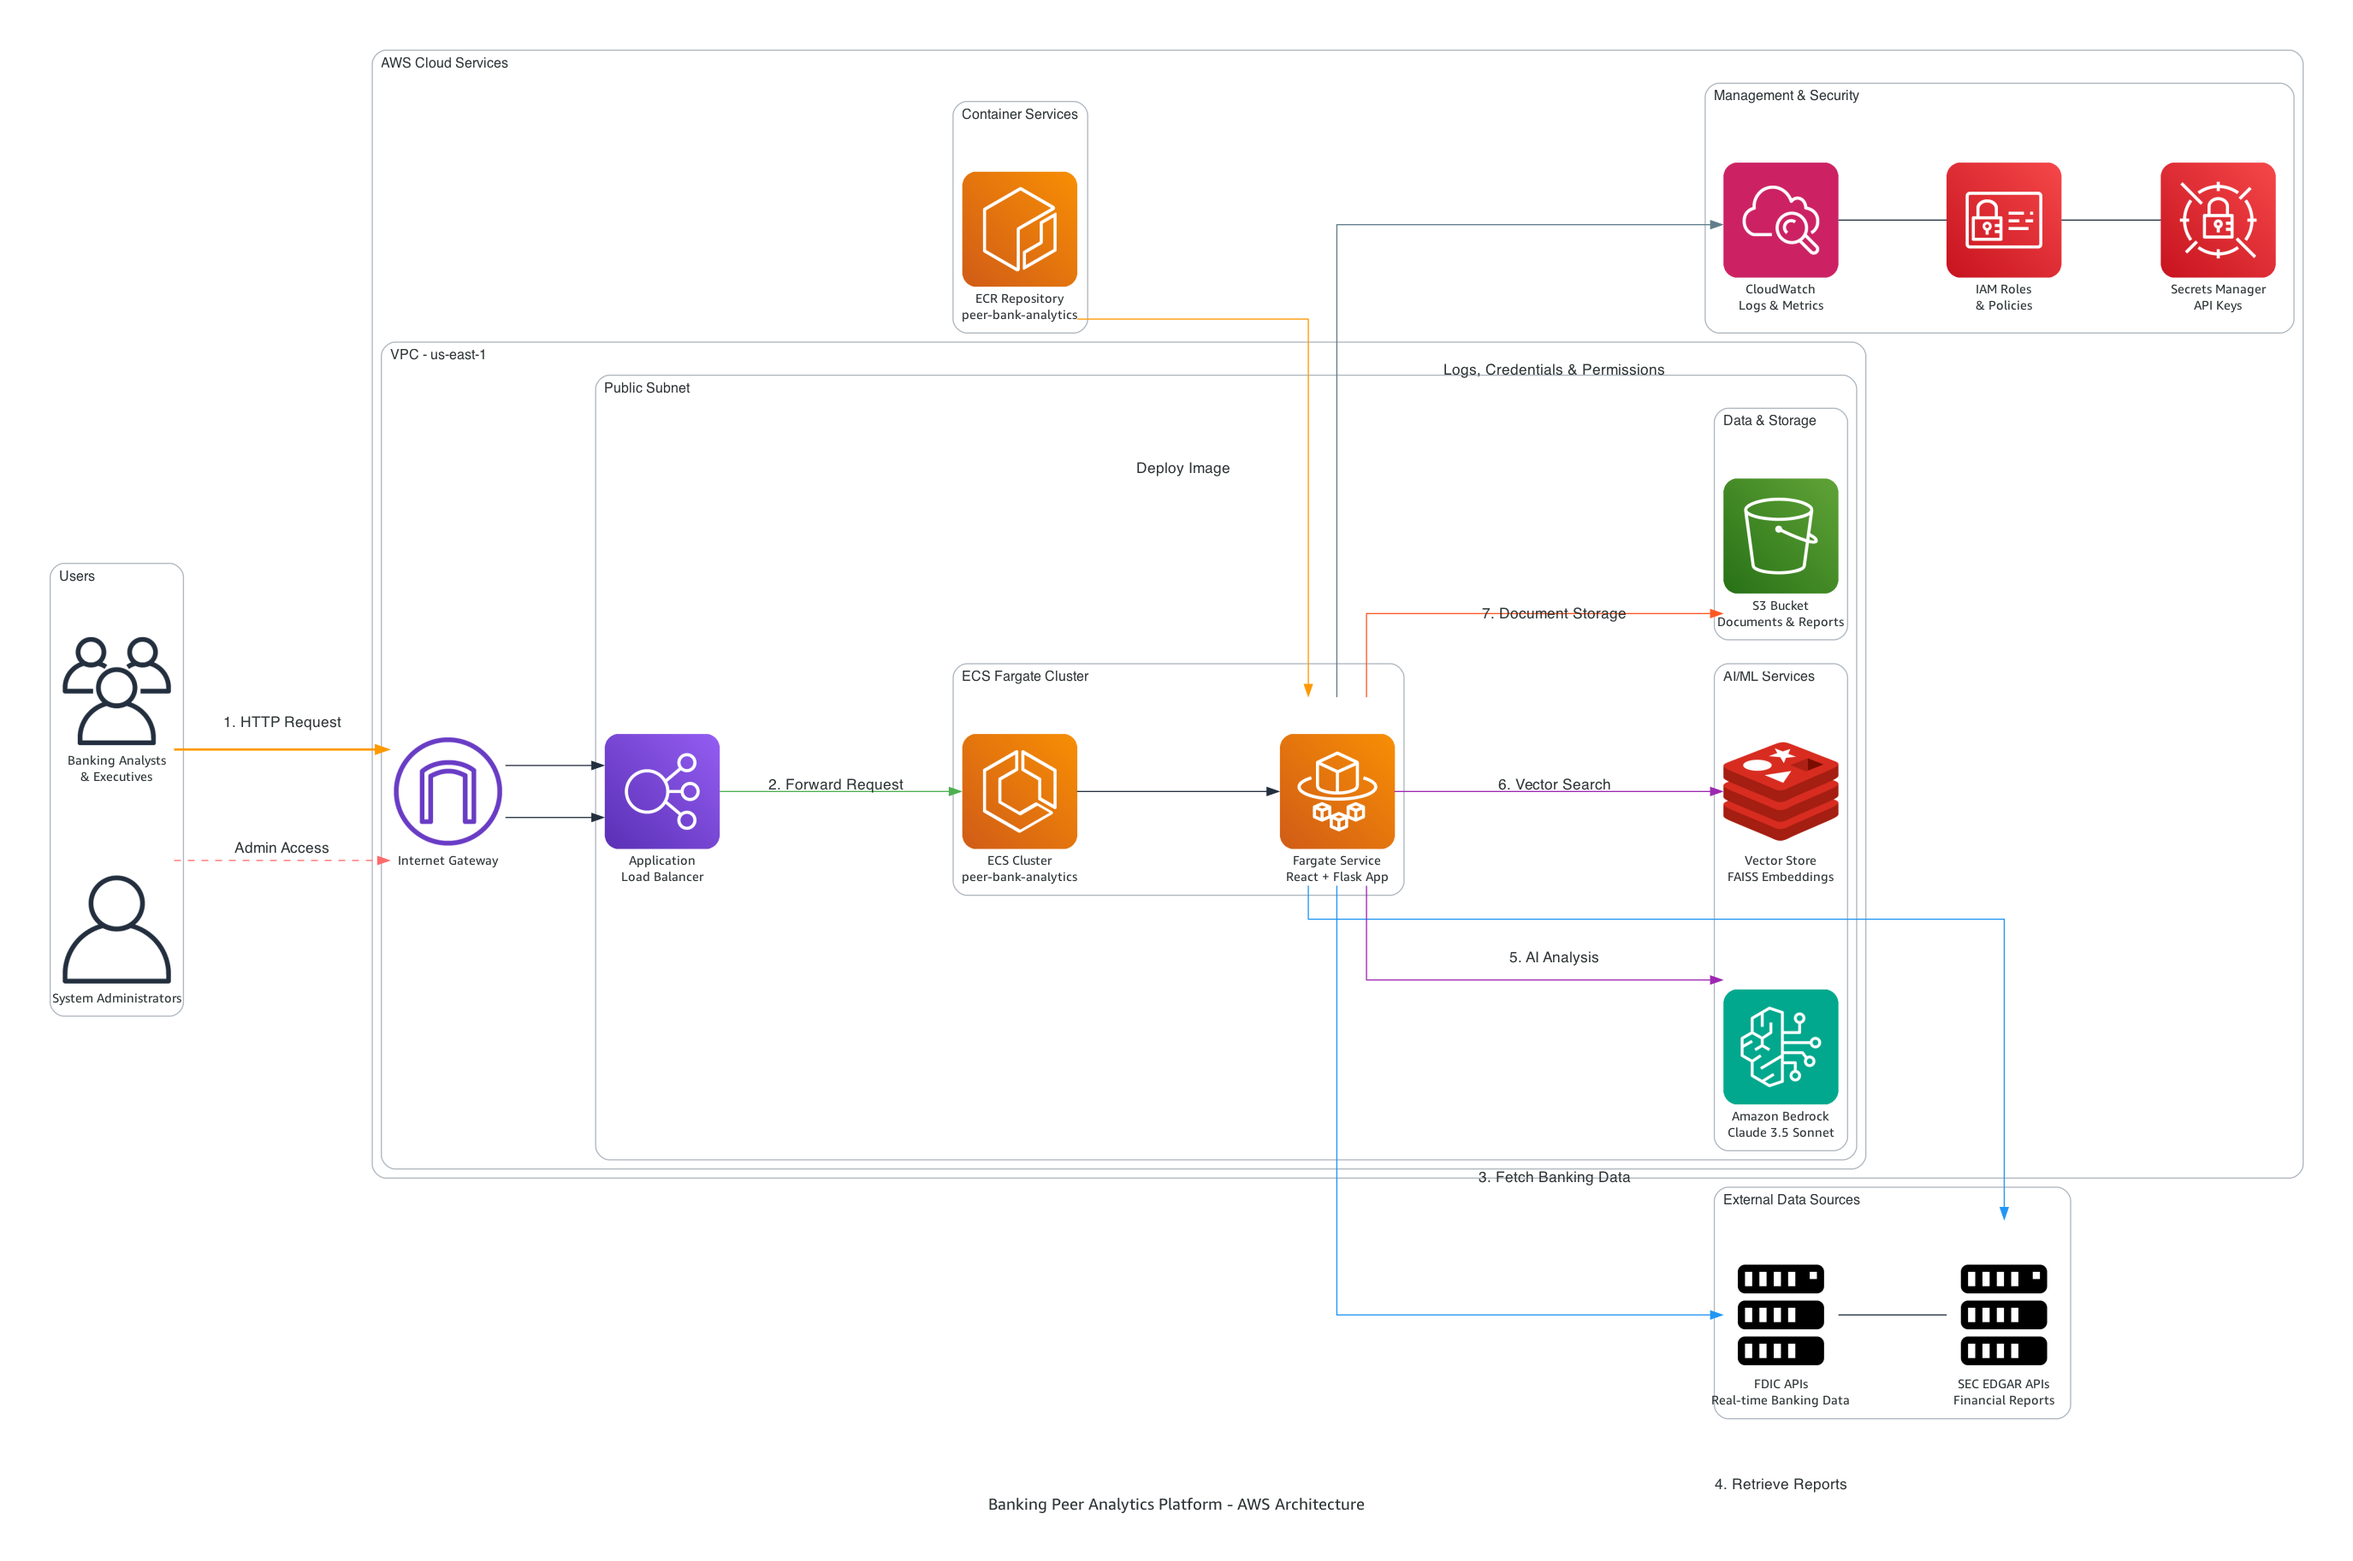
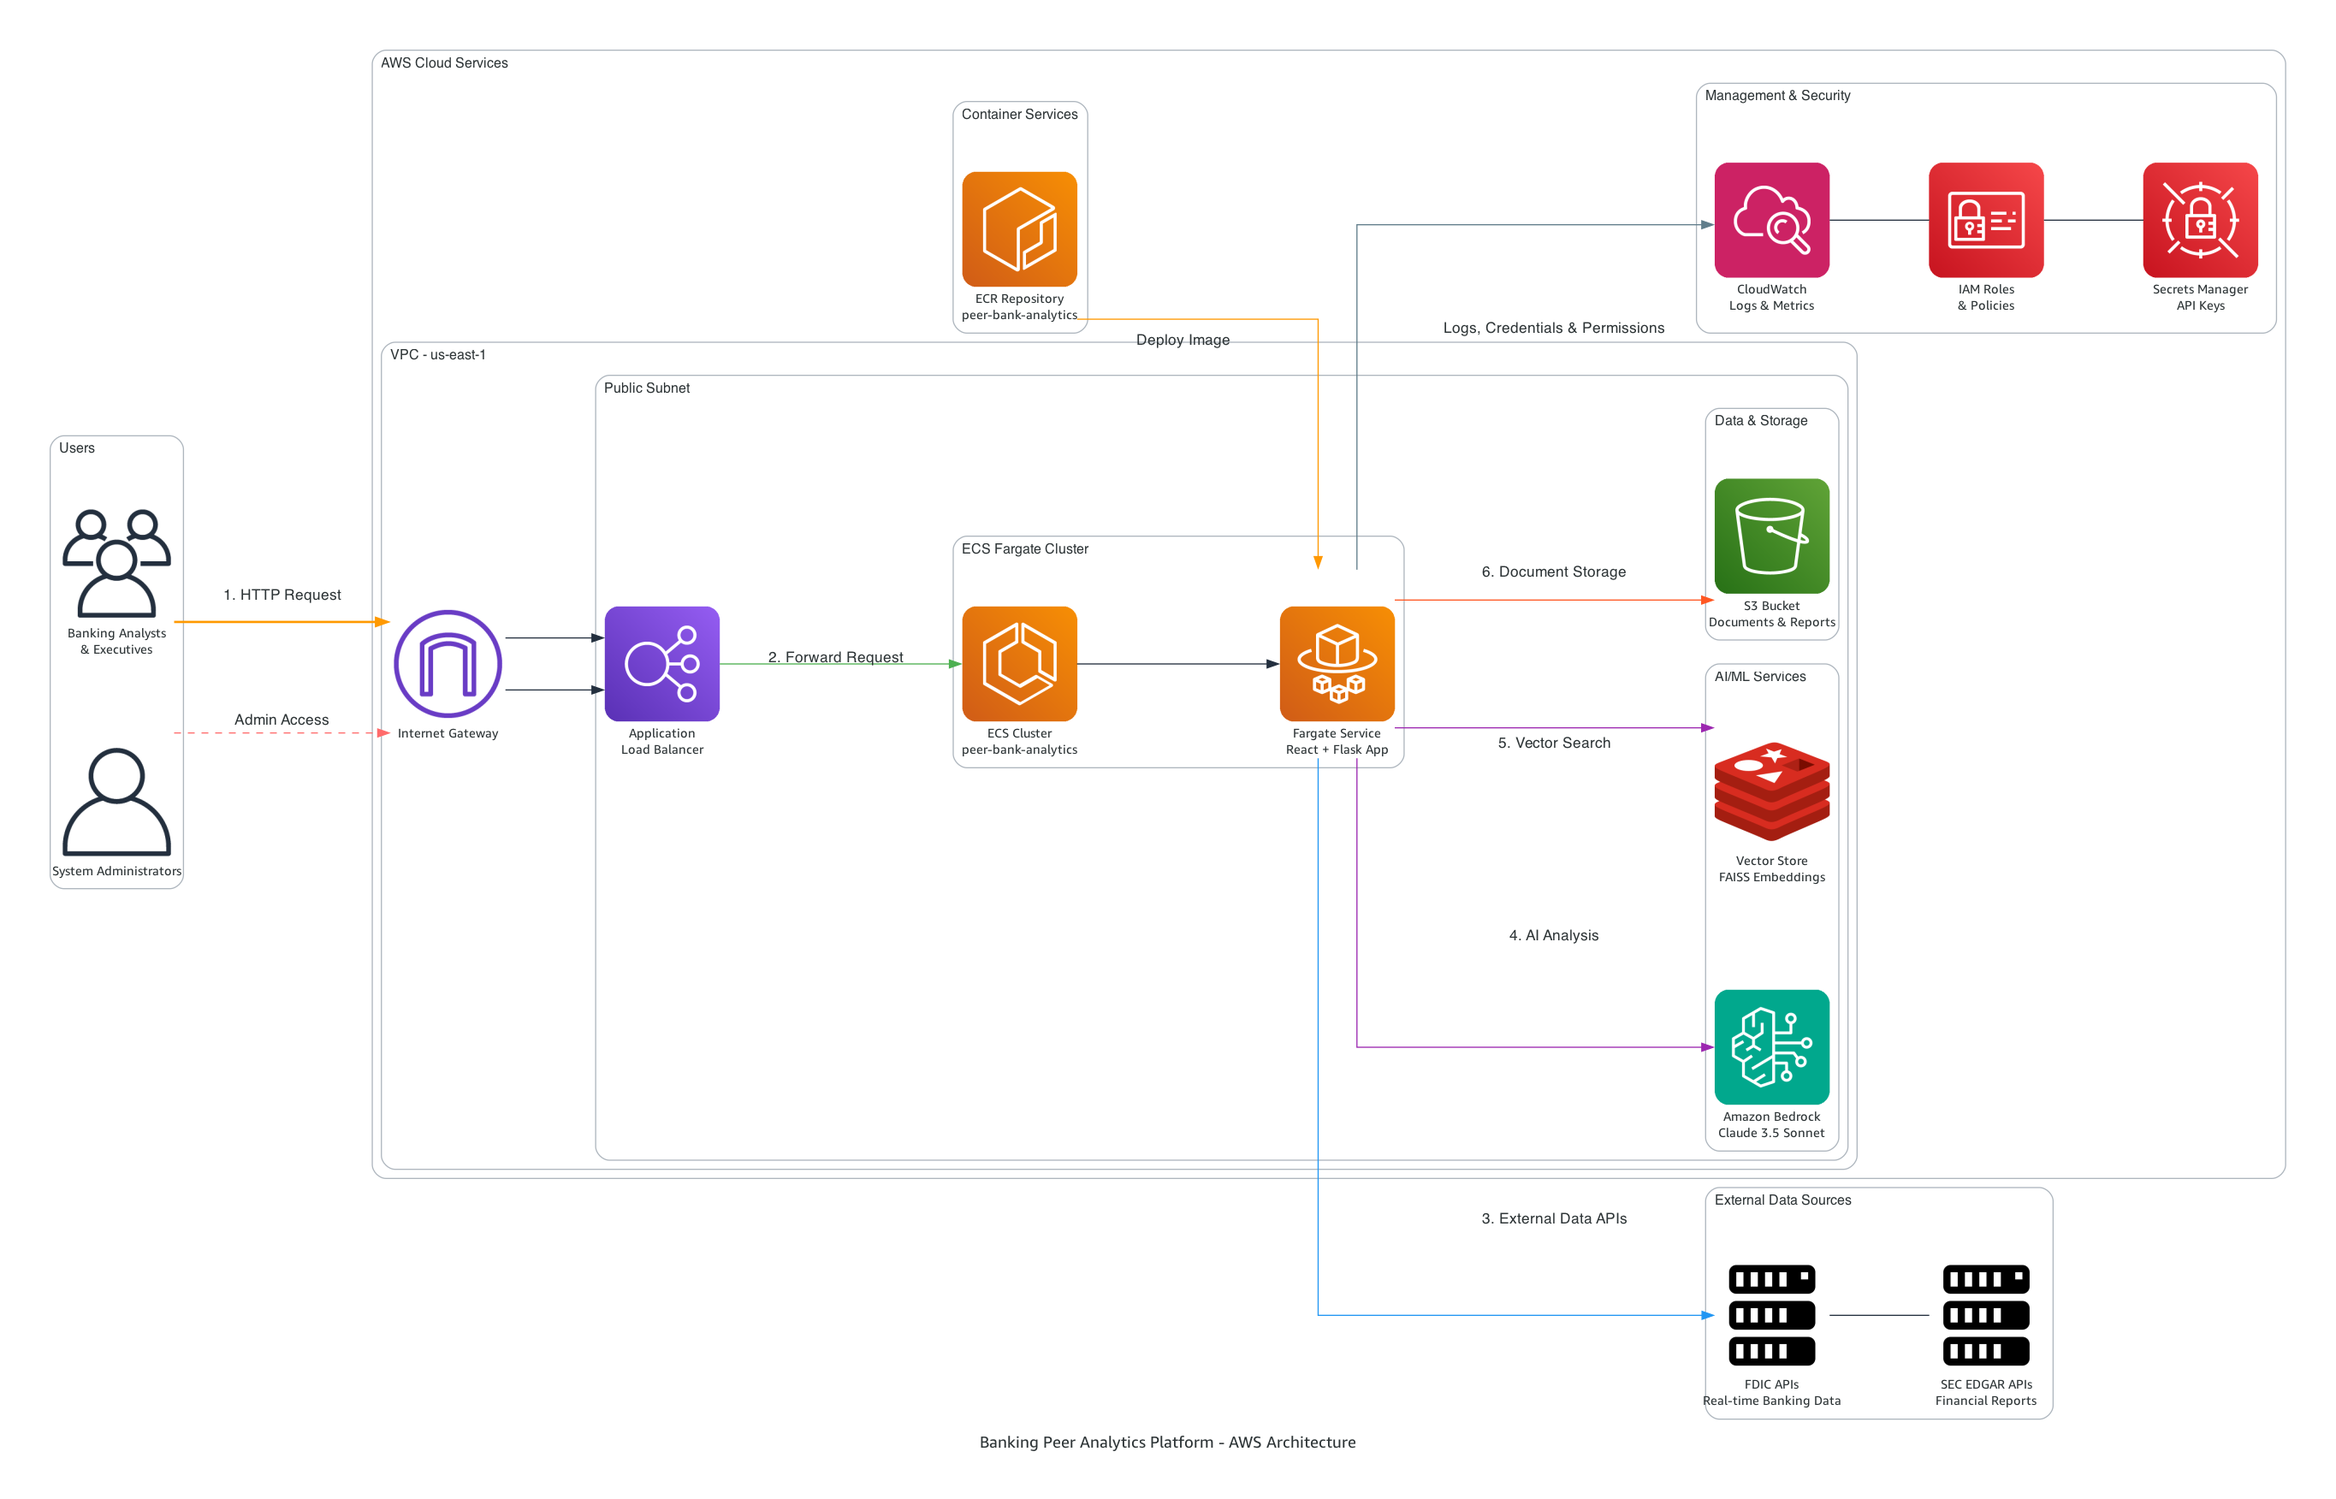
Final architecture diagram - single arrow to external APIs, steps 1-6

diff --git a/arch/banking_architecture_diagram.py b/arch/banking_architecture_diagram.py
@@ -110,16 +110,15 @@ with Diagram(
     alb >> Edge(label="2. Forward Request", color="#4CAF50") >> ecs_cluster
     ecs_cluster >> fargate_service
     
-    # Step 3: External Data Integration
-    fargate_service >> Edge(label="3. Fetch Banking Data", color="#2196F3") >> fdic_api
-    fargate_service >> Edge(label="4. Retrieve Reports", color="#2196F3", labeldistance="0.1", labelangle="0") >> sec_api
+    # Step 3: External Data Integration - single connection to cluster
+    fargate_service >> Edge(label="3. External Data APIs", color="#2196F3") >> fdic_api
     
-    # Step 5: AI/ML Processing
-    fargate_service >> Edge(label="5. AI Analysis", color="#9C27B0") >> bedrock
-    fargate_service >> Edge(label="6. Vector Search", color="#9C27B0") >> vector_db
+    # Step 4: AI/ML Processing
+    fargate_service >> Edge(label="4. AI Analysis", color="#9C27B0") >> bedrock
+    fargate_service >> Edge(label="5. Vector Search", color="#9C27B0") >> vector_db
     
-    # Step 7: Data Management
-    fargate_service >> Edge(label="7. Document Storage", color="#FF5722") >> s3_bucket
+    # Step 6: Data Management
+    fargate_service >> Edge(label="6. Document Storage", color="#FF5722") >> s3_bucket
     
     # Container Deployment
     ecr_repo >> Edge(label="Deploy Image", color="#FF9800") >> fargate_service

diff --git a/README.md b/README.md
@@ -28,7 +28,7 @@ The AI can instantly correlate a bank's declining Net Interest Margin with indus
 
 The BankIQ+ platform follows a modern, cloud-native architecture built on AWS services with a clear separation of concerns and security-first design. The user journey begins when banking analysts and executives access the platform through their web browsers **(Step 1)**, with HTTP requests flowing directly to AWS's [Internet Gateway](https://docs.aws.amazon.com/vpc/latest/userguide/VPC_Internet_Gateway.html) and then to the [Application Load Balancer](https://docs.aws.amazon.com/elasticloadbalancing/latest/application/introduction.html). The load balancer serves as the entry point, intelligently routing traffic to the containerized application running on [Amazon ECS Fargate](https://docs.aws.amazon.com/AmazonECS/latest/developerguide/AWS_Fargate.html) **(Step 2)**. This serverless container approach eliminates the need for EC2 instance management while providing automatic scaling based on demand. The core application consists of a React frontend and Flask API backend, packaged as a single container and deployed through [Amazon ECR](https://docs.aws.amazon.com/AmazonECR/latest/userguide/what-is-ecr.html) for container registry management.
 
-The platform's intelligence comes from its sophisticated data integration and AI processing capabilities. The containerized application orchestrates multiple data streams, fetching real-time banking metrics from FDIC APIs **(Step 3)** and retrieving comprehensive financial reports from SEC EDGAR APIs **(Step 4)**. This external data is then processed through [Amazon Bedrock's](https://docs.aws.amazon.com/bedrock/latest/userguide/what-is-bedrock.html) Claude 3.5 Sonnet model **(Step 5)** for intelligent financial analysis, while a FAISS (Facebook AI Similarity Search) vector database **(Step 6)** enables rapid similarity searches across financial documents. The FAISS integration works alongside Amazon Bedrock's [Titan Embeddings V2](https://docs.aws.amazon.com/bedrock/latest/userguide/titan-embedding-models.html) model to convert financial documents into high-dimensional vectors, enabling the RAG (Retrieval-Augmented Generation) mode that provides instant access to relevant financial information before sending context to Claude for analysis. The architecture includes robust data management through [S3](https://docs.aws.amazon.com/s3/latest/userguide/Welcome.html) for document storage **(Step 7)**, with in-memory caching using Pandas DataFrames handled directly within the Fargate container to optimize performance and reduce API calls.
+The platform's intelligence comes from its sophisticated data integration and AI processing capabilities. The containerized application orchestrates multiple data streams, connecting to external data sources including FDIC APIs for real-time banking metrics and SEC EDGAR APIs for comprehensive financial reports **(Step 3)**. This external data is then processed through [Amazon Bedrock's](https://docs.aws.amazon.com/bedrock/latest/userguide/what-is-bedrock.html) Claude 3.5 Sonnet model **(Step 4)** for intelligent financial analysis, while a FAISS (Facebook AI Similarity Search) vector database **(Step 5)** enables rapid similarity searches across financial documents. The FAISS integration works alongside Amazon Bedrock's [Titan Embeddings V2](https://docs.aws.amazon.com/bedrock/latest/userguide/titan-embedding-models.html) model to convert financial documents into high-dimensional vectors, enabling the RAG (Retrieval-Augmented Generation) mode that provides instant access to relevant financial information before sending context to Claude for analysis. The architecture includes robust data management through [S3](https://docs.aws.amazon.com/s3/latest/userguide/Welcome.html) for document storage **(Step 6)**, with in-memory caching using Pandas DataFrames handled directly within the Fargate container to optimize performance and reduce API calls.
 
 Security and operational excellence are embedded throughout the architecture via AWS's shared responsibility model. The Fargate containers run in [private subnets](https://docs.aws.amazon.com/vpc/latest/userguide/VPC_Subnets.html) with no direct internet access, communicating externally through a [NAT Gateway](https://docs.aws.amazon.com/vpc/latest/userguide/vpc-nat-gateway.html) for enhanced security isolation. [IAM roles and policies](https://docs.aws.amazon.com/IAM/latest/UserGuide/introduction.html) provide fine-grained access control, ensuring the Fargate containers have only the minimum permissions required for Bedrock AI services and external API access. [AWS Secrets Manager](https://docs.aws.amazon.com/secretsmanager/latest/userguide/intro.html) securely stores API keys and credentials, while [Systems Manager Parameter Store](https://docs.aws.amazon.com/systems-manager/latest/userguide/systems-manager-parameter-store.html) handles configuration management. [CloudWatch](https://docs.aws.amazon.com/cloudwatch/latest/monitoring/WhatIsCloudWatch.html) provides comprehensive logging and monitoring across all services, enabling proactive issue detection and performance optimization. The entire infrastructure is deployed through [CloudFormation](https://docs.aws.amazon.com/cloudformation/latest/userguide/Welcome.html) templates, ensuring consistent, repeatable deployments with built-in security groups that restrict access to specific IP addresses, creating a secure, enterprise-grade banking analytics platform that scales automatically while maintaining strict security controls.
 
